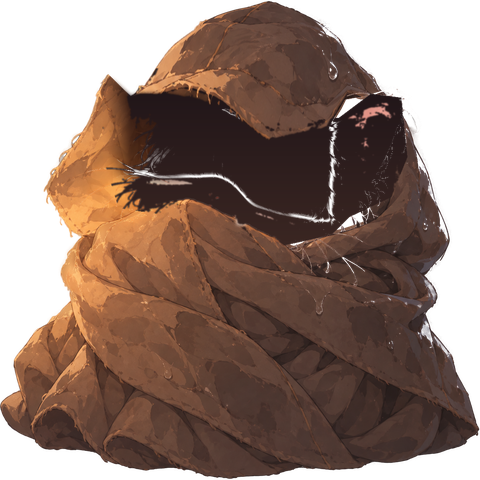
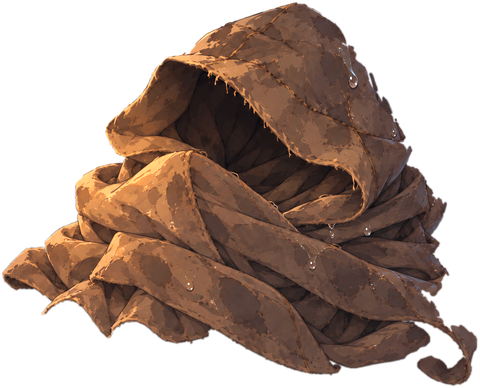
開場：空斗篷、地上的小鐵杯換成正式圖
- 使用者生的 cloak_empty、tin_cup_tea、tin_cup_empty（assets/raw/）：去背（rembg）；空斗篷底下的樹根用 GrabCut 分掉、顏色對齊斗篷小貓那張
- 空斗篷高 112px（塌了一半，寬度跟裹著小貓時差不多）；小鐵杯 ≈9cm＝40px，跟序章的小貓一樣壓暗，熱氣照舊用程式畫（會動）
- 測試：去背圖的寬高比要跟 RATIO 一樣、小鐵杯用圖

Claude-Session: https://claude.ai/code/session_01JRAEBpYi5n9DBGwktRvtp7

diff --git a/src/renderer/opening-art.js b/src/renderer/opening-art.js
@@ -12,10 +12,13 @@
     ERIN: { s: 0.33, x: 310, y: 11 }, ERIN_RIGHT: { s: 0.33, x: 520, y: 11 }, // 立繪 1093×1200 縮 0.33，腰對齊櫃台
     HOLLOW: { x: 646, y: 372 },                 // 森林：樹洞底部中心
     KITTEN_H: 77, CLOAK_H: 130, CAT_H: 180,     // 縮成一團的小貓 ≈17cm、裹斗篷 ≈29cm、櫃台上的白貓 ≈27cm
+    CLOAK_EMPTY_H: 112,                         // 空斗篷塌了一半：寬度跟裹著小貓時差不多（≈31cm）
+    TIN: { x: 726, y: 390, h: 40 },             // 地上的小鐵杯 ≈9cm（底部中心）
     CAT_X: 480,
   };
   // 去背圖的寬高比（assets/opening/）
-  const RATIO = { kitten_wet: 276 / 360, kitten_cloak: 1, cloak_empty: 1, mini_sleep: 449 / 480, mini_startled: 495 / 480 };
+  const RATIO = { kitten_wet: 276 / 360, kitten_cloak: 1, cloak_empty: 480 / 388, mini_sleep: 449 / 480, mini_startled: 495 / 480, tin: 240 / 183 };
+  const IMG = '../../assets/opening/'; // opening.html 在 src/renderer/
 
   const sparkle = (x, y, r, c = '#ffd66b', o = 1) => `<path transform="translate(${x} ${y})" d="M0,${-r} C${r * .14},${-r * .14} ${r * .14},${-r * .14} ${r},0 C${r * .14},${r * .14} ${r * .14},${r * .14} 0,${r} C${-r * .14},${r * .14} ${-r * .14},${r * .14} ${-r},0 C${-r * .14},${-r * .14} ${-r * .14},${-r * .14} 0,${-r} Z" fill="${c}" opacity="${o}"/>`;
   const drop = (x, y, s) => `<path transform="translate(${x} ${y}) scale(${s})" d="M0,-12 C5,-4 8,0 8,4 A8,8 0 0 1 -8,4 C-8,0 -5,-4 0,-12 Z" fill="#9fd3ff" stroke="#fff" stroke-width="1.6"/>`;
@@ -42,14 +45,14 @@
     <text x="903" y="331" text-anchor="middle" font-size="11" font-weight="800" fill="#fdf1d6">三號</text>
     <text x="903" y="346" text-anchor="middle" font-size="11" font-weight="800" fill="#fdf1d6">櫃台</text>
   </g>`;
-  // 地上的小鐵杯（≈9cm）
-  const tin = ({ steam = false, empty = false } = {}) => `<g transform="translate(726 388) scale(1.4)">
-    <ellipse cx="0" cy="0" rx="20" ry="5" fill="#000" opacity=".3"/>
-    <path d="M-16,-22 L16,-22 L13,-2 Q12,2 8,2 L-8,2 Q-12,2 -13,-2 Z" fill="#9aa3bd" stroke="#4b5270" stroke-width="2"/>
-    <path d="M15,-18 q10,2 8,10 q-2,6 -10,5" fill="none" stroke="#4b5270" stroke-width="2.5"/>
-    <ellipse cx="0" cy="-22" rx="16" ry="4.5" fill="${empty ? '#5d6584' : '#d9b289'}" stroke="#4b5270" stroke-width="2"/>
-    ${steam ? '<g class="op-steam" fill="none" stroke="#fff" stroke-width="2.4" stroke-linecap="round" opacity=".85"><path d="M-6,-30 q-6,-8 0,-16 q6,-8 0,-16"/><path d="M7,-32 q-6,-8 0,-16 q6,-8 0,-14"/></g>' : ''}
-  </g>`;
+  // 地上的小鐵杯（≈9cm）：使用者生的圖（tin_tea／tin_empty，10/12），跟序章的小貓一樣壓暗、褪色；熱氣用程式畫（會動）
+  const tin = ({ steam = false, empty = false } = {}) => {
+    const { x, y, h } = L.TIN, w = Math.round(h * RATIO.tin);
+    const img = `<image href="${IMG}${empty ? 'tin_empty' : 'tin_tea'}.png" x="${x - w / 2}" y="${y - h}" width="${w}" height="${h}" style="filter:brightness(.78) saturate(.7) sepia(.08)"/>`;
+    const shadow = `<ellipse cx="${x + 4}" cy="${y - 1}" rx="${w * 0.42}" ry="4" fill="#000" opacity=".35"/>`;
+    const st = steam ? `<g class="op-steam" transform="translate(${x + 6} ${y - h - 2})" fill="none" stroke="#fff" stroke-width="2.4" stroke-linecap="round" opacity=".85"><path d="M-7,0 q-6,-8 0,-16 q6,-8 0,-16"/><path d="M7,-2 q-6,-8 0,-16 q6,-8 0,-14"/></g>` : '';
+    return shadow + img + st;
+  };
   // 黑暗裡的一雙藍眼睛（小貓的眼距 ≈3cm → 20px，光暈另外放大）
   const eyes = (x = 150, y = 336) => `<defs><radialGradient id="opEg" cx=".5" cy=".5" r=".5"><stop offset="0" stop-color="#8fd0ff" stop-opacity=".55"/><stop offset="1" stop-color="#8fd0ff" stop-opacity="0"/></radialGradient></defs>
     <g class="op-eyes"><ellipse cx="${x + 10}" cy="${y}" rx="46" ry="26" fill="url(#opEg)"/>
@@ -108,5 +111,5 @@
     }
   }
 
-  return { L, RATIO, BOOK, prop, regBook, sparkle, mug, book, sign3, tin, eyes, esc };
+  return { L, RATIO, IMG, BOOK, prop, regBook, sparkle, mug, book, sign3, tin, eyes, esc };
 }));

diff --git a/test/run.js b/test/run.js
@@ -2401,7 +2401,14 @@ for (const e of L.entries) assert.ok(e.keywords.length >= 3 && e.reply, `「${e.
   assert.ok(OA.regBook({ name: '<阿明>' }).includes('&lt;阿明&gt;') && !OA.regBook({ name: '<阿明>' }).includes('<阿明>'));
   assert.ok(/先空著/.test(OA.regBook({ blank: true })) && /受理/.test(OA.regBook({ blank: true })) && !/受理/.test(OA.regBook({})));
   // 7. 檔案：圖都在、打包會帶上、主視窗收得到 opening:done、開場頁載入三支腳本
-  for (const f of ['forest.jpg', 'guild.jpg', 'fire_tea.jpg', 'kitten_wet.png', 'kitten_cloak.png', 'cloak_empty.png', 'mini_sleep.png', 'mini_startled.png']) {
+  // 去背圖的寬高比要跟 opening-art.js 的 RATIO 一樣（換圖時忘了改會變形）；空斗篷、小鐵杯是 10/12 換上的正式圖
+  const pngSize = (f) => { const b = fs.readFileSync(path.join(root, 'assets', 'opening', f)); return [b.readUInt32BE(16), b.readUInt32BE(20)]; };
+  for (const [f, k] of [['kitten_wet.png', 'kitten_wet'], ['kitten_cloak.png', 'kitten_cloak'], ['cloak_empty.png', 'cloak_empty'], ['mini_sleep.png', 'mini_sleep'], ['mini_startled.png', 'mini_startled'], ['tin_tea.png', 'tin'], ['tin_empty.png', 'tin']]) {
+    const [w, h] = pngSize(f);
+    assert.ok(Math.abs(w / h - OA.RATIO[k]) < 0.02, `${f} 的寬高比 ${(w / h).toFixed(3)}，RATIO.${k}＝${OA.RATIO[k].toFixed(3)}`);
+  }
+  assert.ok(/tin_tea\.png/.test(OA.prop('tinWarm')) && /op-steam/.test(OA.prop('tinWarm')) && /tin_empty\.png/.test(OA.prop('tinEmpty')) && !/op-steam/.test(OA.prop('tinEmpty')), '小鐵杯用圖、熱氣用程式畫');
+  for (const f of ['forest.jpg', 'guild.jpg', 'fire_tea.jpg', 'kitten_wet.png', 'kitten_cloak.png', 'cloak_empty.png', 'mini_sleep.png', 'mini_startled.png', 'tin_tea.png', 'tin_empty.png']) {
     assert.ok(fs.statSync(path.join(root, 'assets', 'opening', f)).size > 1000, '開場圖 ' + f);
   }
   const ojs = fs.readFileSync(path.join(root, 'src/renderer/opening.js'), 'utf8');

diff --git a/src/renderer/opening.js b/src/renderer/opening.js
@@ -52,7 +52,7 @@
   const CATS = {
     kitten: () => catImg('kitten_wet.png', L.HOLLOW.x, L.HOLLOW.y + 2, L.KITTEN_H, A.RATIO.kitten_wet, 'night'),
     cloak: () => catImg('kitten_cloak.png', L.HOLLOW.x, L.HOLLOW.y + 8, L.CLOAK_H, A.RATIO.kitten_cloak, 'night'),
-    cloakEmpty: () => catImg('cloak_empty.png', L.HOLLOW.x, L.HOLLOW.y + 8, L.CLOAK_H, A.RATIO.cloak_empty, 'night'),
+    cloakEmpty: () => catImg('cloak_empty.png', L.HOLLOW.x, L.HOLLOW.y + 8, L.CLOAK_EMPTY_H, A.RATIO.cloak_empty, 'night'),
     catSleep: () => catImg('mini_sleep.png', L.CAT_X, L.ITEM_Y, L.CAT_H, A.RATIO.mini_sleep),
     catStartled: () => catImg('mini_startled.png', L.CAT_X, L.ITEM_Y, L.CAT_H, A.RATIO.mini_startled, 'cat-jump'),
   };
